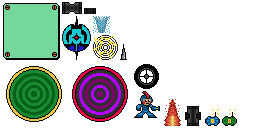
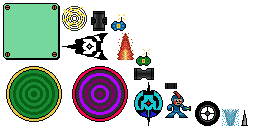
added generic swoopa sprite and imported to level assets

Changed region(s): [[0.2188, 0.0, 0.9688, 1.0]]

diff --git a/core/src/com/udacity/gamedev/gigagal/entities/GigaGal.java b/core/src/com/udacity/gamedev/gigagal/entities/GigaGal.java
@@ -311,7 +311,7 @@ public class GigaGal implements Physical {
                 if (getBounds().overlaps(bounds)) {
                     isCharged = false;
                     chargeStartTime = 0;
-                    int damage = hazard.getDamage();
+                    int damage = 0;
                     float margin;
                     if (hazard instanceof Destructible) {
                         margin = hazard.getWidth() / 6;

diff --git a/core/src/com/udacity/gamedev/gigagal/util/Assets.java b/core/src/com/udacity/gamedev/gigagal/util/Assets.java
@@ -206,7 +206,7 @@ public final class Assets implements Disposable, AssetErrorListener {
 
 
         public CannonAssets(TextureAtlas atlas) {
-            verticalCannon = atlas.findRegion(Constants.VERTICAL_CANNON_SPRITE);
+            verticalCannon
             lateralCannon = atlas.findRegion(Constants.LATERAL_CANNON_SPRITE);
         }
     }
